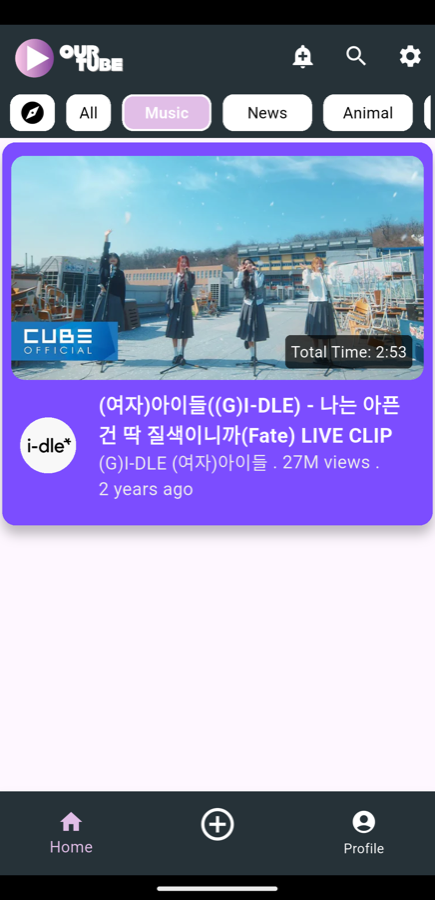
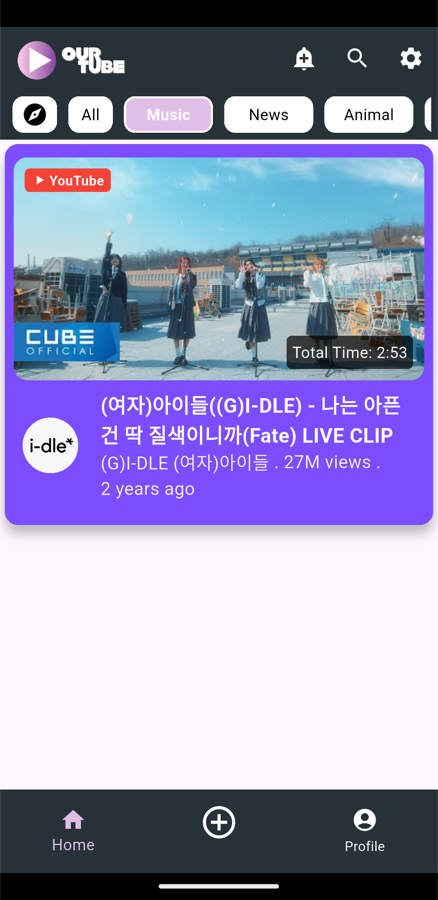
Update README and screenshots
- Retake screenshots with YouTube tags, profile and settings screens
- Group features by area and fix outdated instructions
- Describe the Video and Profile database tables

Changed region(s): [[0.0, 0.0311, 1.0, 0.5911], [0.0, 0.8711, 1.0, 0.9644], [0.3586, 0.9644, 0.6575, 0.9956]]

diff --git a/README.md b/README.md
@@ -1,30 +1,47 @@
 # OurTube
 
-แอปดูวิดีโอ YouTube สร้างด้วย Flutter (โปรเจกต์รายวิชา CP213)
+แอปดูและอัปโหลดวิดีโอ สร้างด้วย Flutter (โปรเจกต์รายวิชา CP213)
+เก็บข้อมูลทั้งหมดไว้ในเครื่องด้วย SQLite ไม่ต้องใช้เซิร์ฟเวอร์
 
 ## ภาพการใช้งาน
 
 | หน้าแรก | เล่นวิดีโอ | กรองตามหมวดหมู่ |
 | :---: | :---: | :---: |
 | <img src="docs/screenshots/01_home.png" width="250"> | <img src="docs/screenshots/02_play.png" width="250"> | <img src="docs/screenshots/03_category.png" width="250"> |
-| รายการวิดีโอ พร้อมชื่อช่อง ยอดวิว และเวลาที่อัปโหลด | กดที่วิดีโอเพื่อเปิดหน้าเล่น ดูรายละเอียดและปุ่ม Like / Share / Download | กดแท็บ All, Music, News, Animal ฯลฯ เพื่อกรองวิดีโอ |
+| รายการวิดีโอเรียงจากใหม่ไปเก่า พร้อมชื่อช่อง ยอดวิว และเวลาที่อัปโหลด | กดที่วิดีโอเพื่อเปิดหน้าเล่น ดูรายละเอียดและปุ่ม Like / Share / Download | กดแท็บ All, Music, News, Animal ฯลฯ เพื่อกรองวิดีโอ |
 
-| ค้นหา | อัปโหลดวิดีโอ |
+| ค้นหา | อัปโหลดวิดีโอ | โปรไฟล์ |
+| :---: | :---: | :---: |
+| <img src="docs/screenshots/04_search.png" width="250"> | <img src="docs/screenshots/05_upload.png" width="250"> | <img src="docs/screenshots/06_profile.png" width="250"> |
+| กดไอคอนแว่นขยาย พิมพ์คำค้นแล้วกด Enter | กดปุ่ม ⊕ ตรงกลางแถบล่าง วางลิงก์ YouTube หรือเลือกไฟล์จากเครื่อง | กดแท็บ Profile ดูวิดีโอที่เราอัปโหลด เปลี่ยนชื่อและรูปโปรไฟล์ |
+
+| ตั้งค่า | Dark mode |
 | :---: | :---: |
-| <img src="docs/screenshots/04_search.png" width="250"> | <img src="docs/screenshots/05_upload.png" width="250"> |
-| กดไอคอนแว่นขยาย พิมพ์คำค้นแล้วกด Enter (ค้นจากชื่อวิดีโอใน database) | กดปุ่ม ⊕ ตรงกลางแถบล่าง เลือก **YouTube link** (วางลิงก์) หรือ **From phone** (เลือกไฟล์จากเครื่อง) กรอกชื่อและหมวดหมู่ แล้วกด **Upload** วิดีโอจะอยู่ในโปรไฟล์ของเรา |
+| <img src="docs/screenshots/07_settings.png" width="250"> | <img src="docs/screenshots/08_dark.png" width="250"> |
+| กดไอคอนเฟืองมุมขวาบน | เปิด Dark mode ได้จากหน้าตั้งค่า |
 
 ## ฟีเจอร์
 
+**ดูวิดีโอ**
 - แสดงรายการวิดีโอพร้อมภาพปก ความยาว ยอดวิว (เช่น 28M) และเวลาที่ผ่านมา (เช่น 7 years ago)
-- อัปโหลดวิดีโอได้ 2 แบบ: วางลิงก์ YouTube (ดึงภาพปกให้อัตโนมัติ) หรือเลือกไฟล์วิดีโอจากเครื่อง (อ่านความยาวให้อัตโนมัติ)
 - เล่นวิดีโอ YouTube ด้วย `youtube_player_flutter` และวิดีโอจากเครื่องด้วย `video_player`
-- วิดีโอที่มาจากลิงก์ YouTube มีป้าย **YouTube** สีแดงบนการ์ดและหน้าเล่น
-- หน้า Profile (แท็บ Profile ด้านล่าง): เปลี่ยนชื่อ เปลี่ยนรูปโปรไฟล์ ดูวิดีโอที่เราอัปโหลด และกดค้างเพื่อลบวิดีโอ
-- หน้า Settings (ไอคอนเฟืองมุมขวาบน): เปิด/ปิด Dark mode, เปิด/ปิด Autoplay และลบวิดีโอทั้งหมด ค่าที่ตั้งจะถูกจำไว้แม้ปิดแอป
-- กรองวิดีโอตามหมวดหมู่ (จัดการ state ด้วย `provider`)
-- ค้นหาวิดีโอจากชื่อ
-- เก็บข้อมูลวิดีโอในเครื่องด้วย `sqflite` ทุกหน้า (หน้าแรก หมวดหมู่ ค้นหา) ดึงข้อมูลจาก database
+- วิดีโอที่มาจากลิงก์ YouTube มีป้าย **▶ YouTube** สีแดงบนการ์ดและหน้าเล่น
+- กรองวิดีโอตามหมวดหมู่ และค้นหาจากชื่อวิดีโอ
+
+**อัปโหลดวิดีโอ**
+- **YouTube link:** วางลิงก์ (หรือ ID 11 ตัว) แอปดึงภาพปกให้อัตโนมัติ
+- **From phone:** เลือกวิดีโอจากแกลเลอรี แอปอ่านความยาวให้อัตโนมัติ และคัดลอกไฟล์ไปเก็บในโฟลเดอร์ของแอป
+- วิดีโอที่อัปโหลดเป็นของโปรไฟล์เราเอง ไม่ต้องเลือกช่อง
+
+**โปรไฟล์**
+- เปลี่ยนชื่อ (กดดินสอ) และรูปโปรไฟล์ (แตะที่รูป)
+- ดูรายการวิดีโอที่เราอัปโหลด กดค้างที่วิดีโอเพื่อลบ
+
+**ตั้งค่า**
+- **Dark mode:** เปิด/ปิดธีมมืด
+- **Autoplay:** เล่นวิดีโอทันทีเมื่อเปิด
+- **Delete all videos:** ลบวิดีโอทั้งหมด (ทั้งข้อมูลใน database และไฟล์ที่คัดลอกไว้)
+- ค่าที่ตั้งถูกจำไว้ด้วย `shared_preferences` แม้ปิดแอปแล้วเปิดใหม่
 
 ## สิ่งที่ต้องมี
 
@@ -43,8 +60,6 @@ flutter run
 
 เปิดแอปครั้งแรก database ยังว่าง หน้าแรกจะขึ้นว่า *No videos yet* ให้กดปุ่ม ⊕ แล้วอัปโหลดวิดีโอก่อน
 
-วิดีโอที่อัปโหลดจากเครื่องจะถูกคัดลอกไปเก็บในโฟลเดอร์ของแอป (`videos/`) ลบวิดีโอทั้งหมดได้ที่ Settings → **Delete all videos** (ลบทั้งข้อมูลใน database และไฟล์ที่คัดลอกไว้)
-
 > **หมายเหตุ:** ถ้าเปิดโปรเจกต์ใน VS Code แล้วมีส่วนขยาย Java/Gradle ติดตั้งอยู่ ส่วนขยายอาจแก้ไฟล์
 > `android/gradle/wrapper/gradle-wrapper.properties` เป็น Gradle 9.x ซึ่งใช้กับ AGP 8 ไม่ได้
 > ถ้า build ไม่ผ่าน ให้ตรวจว่า `distributionUrl` ยังเป็น `gradle-8.14.3-all.zip`
@@ -53,10 +68,14 @@ flutter run
 
 ```
 lib/
-├── main.dart                 # จุดเริ่มต้นของแอป
+├── main.dart                 # จุดเริ่มต้นของแอป ธีม และ provider
 ├── screens/                  # หน้าจอ: home, video_play, search, add_video, profile, settings
-├── components/               # วิดเจ็ตย่อย: card, top_bar, nav_bar, ตัวจัดรูปแบบตัวเลข/เวลา
+├── components/               # วิดเจ็ตย่อย: card, top_bar, nav_bar, user_avatar, youtube_tag, ตัวจัดรูปแบบตัวเลข/เวลา
 ├── model/                    # โมเดล Video, User
-├── providers/                # state หมวดหมู่ที่เลือก, รายการวิดีโอ/โปรไฟล์ และค่า settings
+├── providers/                # state: หมวดหมู่ที่เลือก, รายการวิดีโอ/โปรไฟล์, ค่า settings
 └── database/                 # การเชื่อมต่อ SQLite และ service สำหรับวิดีโอและโปรไฟล์
 ```
+
+**Database (SQLite)** มี 2 ตาราง:
+- `Video` เก็บข้อมูลวิดีโอ คอลัมน์ `source` บอกว่ามาจาก `youtube` หรือ `local` และ `localPath` เก็บที่อยู่ไฟล์ของวิดีโอจากเครื่อง
+- `Profile` เก็บชื่อและรูปโปรไฟล์ของเรา
